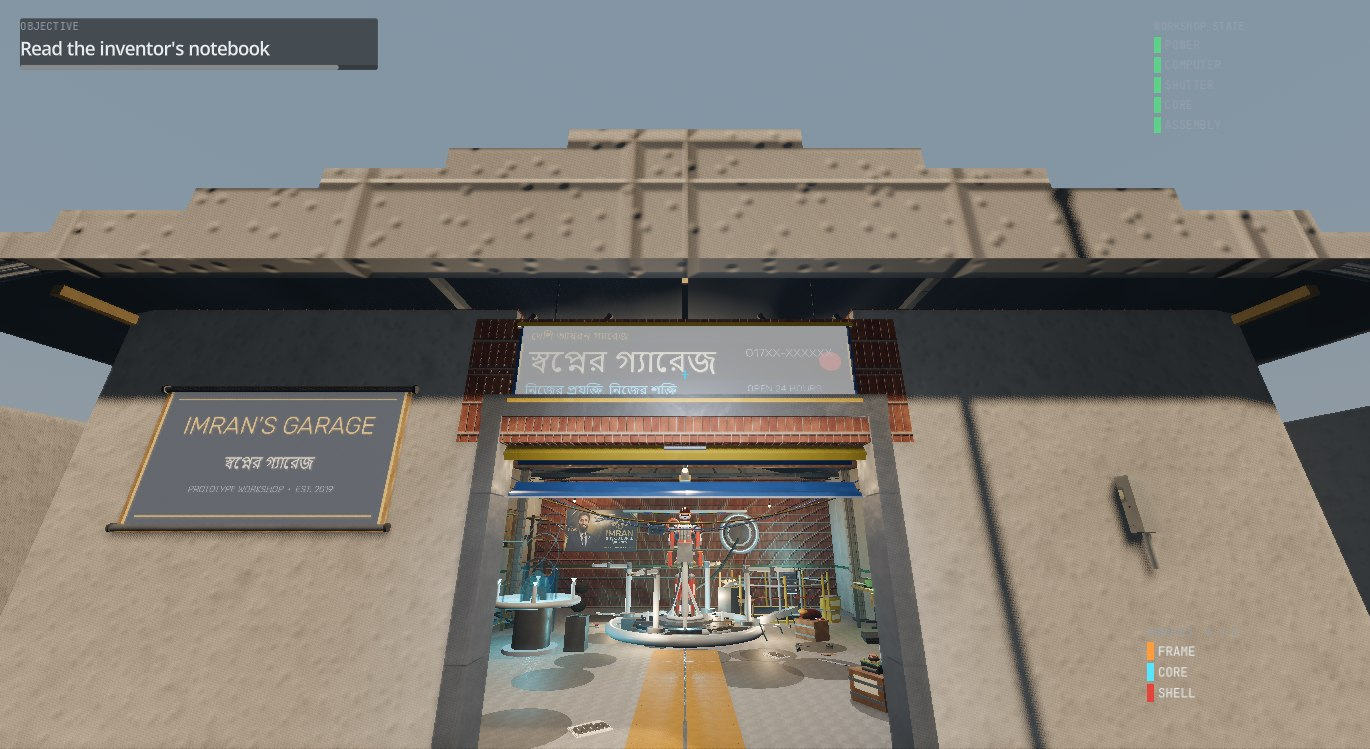
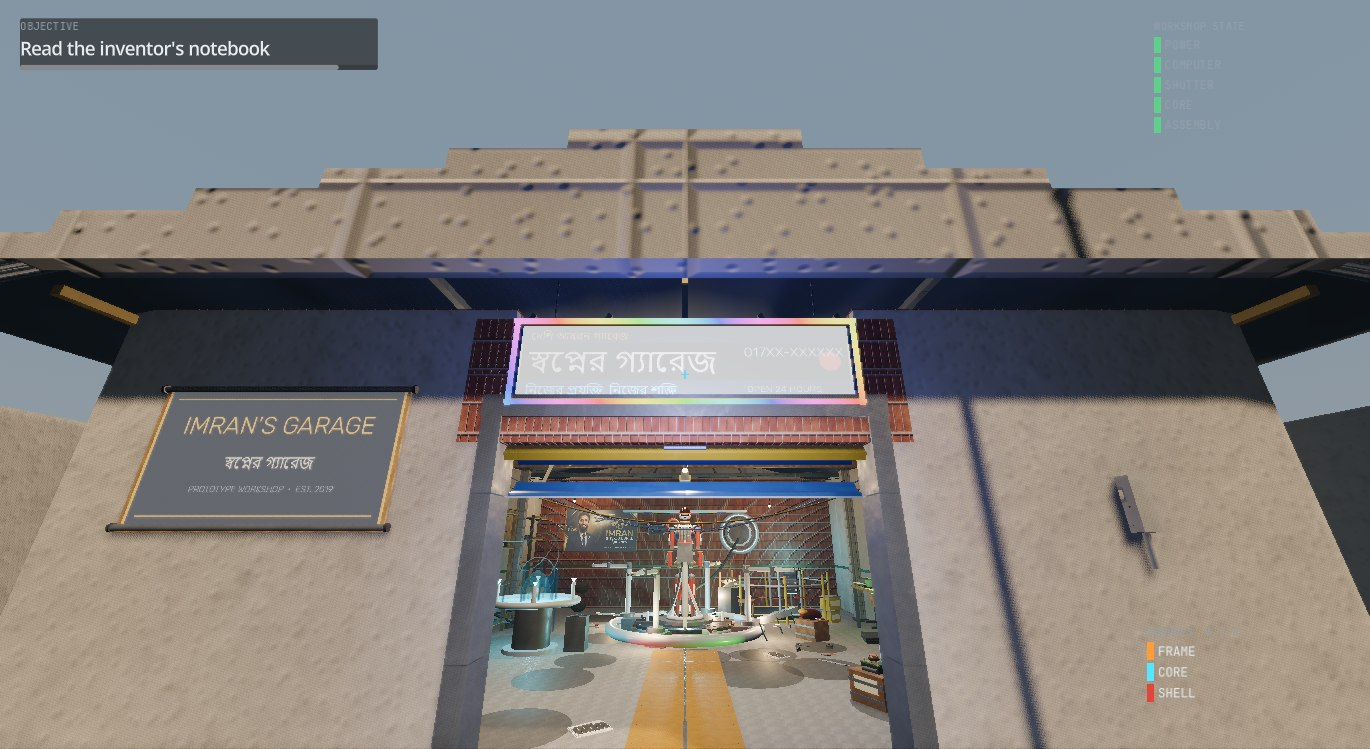
An RGB-lit signboard over the gate: brighter board, LED frame, cycling washes
The facade signboard was the dimmest thing on the frontage — small type, the
right-hand side (phone number, OPEN 24 HOURS) lost in the awning's shadow. It is
now the brightest:

- The bake is self-lit: emissive energy 0.35 -> 1.0, the phone number larger and
  whiter, the header bands lifted, the tagline cyan brighter. The board reads
  clearly at any light level.
- A chasing RGB LED strip (shaders/sign_rgb.gdshader — unshaded, hue from
  object-space position + time, bright enough to bloom) runs around the board's
  frame, the way the sign shops sell them by the metre.
- Two colour-cycling washes and one street-spill omni (scripts/garage/sign_rgb.gd)
  are attached to the sign itself and register on circuit 0, the incoming line:
  the sign is never dark, whatever the switchboard does — the same rule as the
  interior bulbs. The rig rides the prop, so carrying the signboard with the
  mouse carries its glow.

Counts: 37 lights (was 34; three new, none shadow-casting), 43 scripts, mesh cache
1 783 / 1 131, build 11 466 ms in the final capture. README (with a refreshed hero
screenshot), USER_MANUAL, PROJECT_OVERVIEW, RESEARCH_METHODOLOGY,
SYSTEM_ARCHITECTURE, EXPERIMENTS, ASSET_LICENSES and GRAPHICS_ALGORITHMS synced.

diff --git a/docs/EXPERIMENTS.md b/docs/EXPERIMENTS.md
@@ -274,11 +274,11 @@ count and the shadow-pass draw calls alongside the frame time. Measurements are 
 camera (fixed transform) so all configurations see the same geometry.
 
 **Note on the rig these rows were measured on.** The table below is from the lighting rig of the
-first build — 31 lights, 7 casters. The shipped rig has 34 — four tube fixtures instead of five,
-plus the five always-on bulbs, which cast no shadows — with the same seven-caster budget, the same
-circuit structure and the same finding: the cost tracks the shadow casters, not the light count.
-Re-running the tab on the shipped room reproduces the shape of the table rather than these exact
-milliseconds.
+first build — 31 lights, 7 casters. The shipped rig has 37 — four tube fixtures instead of five,
+plus the five always-on bulbs and the sign's three colour washes, none of which cast shadows — with
+the same seven-caster budget, the same circuit structure and the same
+finding: the cost tracks the shadow casters, not the light count. Re-running the tab on the shipped
+room reproduces the shape of the table rather than these exact milliseconds.
 
 **Results**
 
@@ -378,14 +378,14 @@ performance work.
 
 | Step | Time | Share | What dominates |
 |---|---|---|---|
-| Surface synthesis (first surface) | 262 ms | 2.4% | the per-texel loop |
-| Structure — floor, walls, columns, roof, shutter, entrance apron, windows | 5 772 ms | 52.4% | mesh generation, collision shapes, and the surfaces it requests |
-| Environment — sky, `WorldEnvironment`, 29 lights, dust, rain | 40 ms | 0.4% | negligible |
-| Dressing — 185 placements, 47 stations, 4 layout groups, cables, signage, grime decals, wall plaques, flag, coin, always-on bulbs, wall maps | 4 654 ms | 42.2% | prop construction, station wiring, and its surfaces |
-| Screens — 5 live `SubViewport`s and their materials | 74 ms | 0.7% | — |
-| Player — camera, ray, reticle, collision | 31 ms | 0.3% | — |
-| Interface — HUD, 10 panels, objective director | 182 ms | 1.7% | — |
-| **Total** | **11 015 ms** | **100%** | |
+| Surface synthesis (first surface) | 268 ms | 2.3% | the per-texel loop |
+| Structure — floor, walls, columns, roof, shutter, entrance apron, windows | 5 920 ms | 51.6% | mesh generation, collision shapes, and the surfaces it requests |
+| Environment — sky, `WorldEnvironment`, 29 lights, dust, rain | 39 ms | 0.3% | negligible |
+| Dressing — 185 placements, 47 stations, 4 layout groups, cables, signage, grime decals, wall plaques, flag, coin, always-on bulbs, wall maps, the sign's RGB rig | 4 951 ms | 43.2% | prop construction, station wiring, and its surfaces |
+| Screens — 5 live `SubViewport`s and their materials | 72 ms | 0.6% | — |
+| Player — camera, ray, reticle, collision | 32 ms | 0.3% | — |
+| Interface — HUD, 10 panels, objective director | 184 ms | 1.6% | — |
+| **Total** | **11 466 ms** | **100%** | |
 
 **Dressing breakdown, `GarageDressing.dressing_breakdown()`**
 
@@ -397,13 +397,13 @@ performance work.
 | Authored placements | 153 |
 | Procedural placements | 22 (4 groups: 6 + 5 + 6 + 5) |
 | Wall-rack placements | 10 |
-| Mesh cache hits / misses | 1 781 / 1 129 |
+| Mesh cache hits / misses | 1 783 / 1 131 |
 | Rejection-sampler efficiency | 46% of attempts produce a placement |
 
 The counts above are from the shipped build. The per-step times are from the latest capture run;
-the same garage measured 11 101 ms and 12 473 ms within the hour either side of it, so treat absolute
-milliseconds as load-dependent — they drift by about 20% when something else is using the laptop —
-and the shares as the finding. This is worth stating rather than pretending the machine is a
+the same garage measured 11 015 ms, 11 101 ms and 12 473 ms across the day's earlier runs, so treat
+absolute milliseconds as load-dependent — they drift by about 20% when something else is using the
+laptop — and the shares as the finding. This is worth stating rather than pretending the machine is a
 benchmark rig.
 
 **Finding 7.1 — surface synthesis dominates the wall clock.** The first surface costs 262–283 ms across
@@ -413,12 +413,12 @@ left is moving that per-texel loop to a compute shader, not reducing geometry. T
 13 × 16.5 m room measured 71%; the share rose when the room shrank, because the texture cost is per
 *surface*, not per cubic metre.
 
-**Finding 7.2 — mesh caching is what makes 191 props affordable.** 1 129 distinct meshes serve 185
-placed props through 1 781 hits. Without the cache every spanner, capacitor and bolt would allocate
+**Finding 7.2 — mesh caching is what makes 191 props affordable.** 1 131 distinct meshes serve 185
+placed props through 1 783 hits. Without the cache every spanner, capacitor and bolt would allocate
 its own `BoxMesh`; with it, forty spanners share one. This is also why the frame time is as low as it
 is — shared meshes are candidates for batching in a way that per-instance geometry is not.
 
-**Finding 7.3 — environment setup is free; environment *rendering* is not.** Building 34 lights, the
+**Finding 7.3 — environment setup is free; environment *rendering* is not.** Building 37 lights, the
 sky, the SDFGI configuration and two particle systems costs 39 ms. *Rendering* SDFGI costs 9.5 ms per
 frame. Setup cost and runtime cost are unrelated here, which is worth knowing when choosing what to
 add.

diff --git a/docs/SYSTEM_ARCHITECTURE.md b/docs/SYSTEM_ARCHITECTURE.md
@@ -49,7 +49,7 @@ to catch the first.
     ├── Runtime                  (Node)     GarageRuntime: power, shutter, fans, screens, core, assembly
     ├── Carry                    (Node)     CarrySystem: mouse pick-up / place / rotate / put back
     ├── Garage                   (Node3D)   GarageStructure: floor, walls, columns, roof, shutter frame
-    ├── Environment              (Node3D)   GarageEnvironment: WorldEnvironment, 34 lights, dust, rain
+    ├── Environment              (Node3D)   GarageEnvironment: WorldEnvironment, 37 lights, dust, rain
     ├── Dressing                 (Node3D)   GarageDressing: 185 props, 47 stations, cables, signage, decals
     │
     ├── area volumes ×6          (Area3D)   named rooms; group "garage_areas"
@@ -82,16 +82,16 @@ progress.
 
 | Step | What it does | Measured (UHD 620) |
 |---|---|---|
-| 0 | `MaterialLibrary.ensure_built()`, first surface synthesised | 264 ms for one 256 px surface (264–283 across runs) |
-| 1 | `GarageStructure.build()` — floor, plinths, courtyard, walls, columns, roof, shutter frame, entrance apron, windows | 5 772 ms |
-| 2 | `GarageEnvironment.build()` — sky, WorldEnvironment, 29 lights in 4 circuits, dust, rain (the five always-on bulbs are registered by the dressing, each attached to its own bulb) | 40 ms |
-| 3 | `GarageDressing.dress()` — 5 areas, 4 procedural layout groups, 2 wall racks, cables, signage, the always-on bulbs, the wall maps | 4 654 ms |
+| 0 | `MaterialLibrary.ensure_built()`, first surface synthesised | 268 ms for one 256 px surface (262–283 across runs) |
+| 1 | `GarageStructure.build()` — floor, plinths, courtyard, walls, columns, roof, shutter frame, entrance apron, windows | 5 920 ms |
+| 2 | `GarageEnvironment.build()` — sky, WorldEnvironment, 29 lights in 4 circuits, dust, rain (the five always-on bulbs and the sign's RGB rig are registered by the dressing, each light attached to its own prop) | 39 ms |
+| 3 | `GarageDressing.dress()` — 5 areas, 4 procedural layout groups, 2 wall racks, cables, signage, the always-on bulbs, the wall maps, the sign's RGB rig | 4 951 ms |
 | 4 | Area volumes | — |
-| 5 | Live `SubViewport`s for 5 screens, attached to their materials | 74 ms |
-| 6 | Player, camera, ray, reticle, collision, capsule sizing | 31 ms |
-| 7 | HUD, all panels, `ObjectiveDirector`, `start()` | 182 ms |
+| 5 | Live `SubViewport`s for 5 screens, attached to their materials | 72 ms |
+| 6 | Player, camera, ray, reticle, collision, capsule sizing | 32 ms |
+| 7 | HUD, all panels, `ObjectiveDirector`, `start()` | 184 ms |
 | 8 | `_apply_restored_state()` — replays a saved run with `instant = true` | — |
-| | **total** | **11 015 ms** |
+| | **total** | **11 466 ms** |
 
 Surfaces are synthesised **lazily**, on first request. Loading every recipe up front would cost
 roughly 9.5 s for all 34 at 256 px; the garage actually touches 34 of them, so the saving is in the
@@ -367,7 +367,7 @@ so that `tests/validate_scripts.gd` can run in an environment with no GPU.
 
 | Mechanism | What it covers |
 |---|---|
-| `tests/validate_scripts.gd` | Loads and compiles all 42 scripts headless; fails loudly on any parse or compile error. This is the primary guard, and it caught every error class during development. |
+| `tests/validate_scripts.gd` | Loads and compiles all 43 scripts headless; fails loudly on any parse or compile error. This is the primary guard, and it caught every error class during development. |
 | `tests/timing_probe.gd` | Measures one surface at 256/384/512 px. The instrumentation that established the texture budget. |
 | `tests/introspect.gd` | Engine API introspection. Used to pin exact signatures when they were uncertain rather than guessing. |
 | `tests/dump_floor.gd` | Builds the world headless and reports: every node within a radius of a floor point, the dressing's occupancy boxes with their owning stations, per-child bound audits, and a full carry-system exercise — surface heights, a pick-up/place cycle and the put-back path. Written to turn "the screenshot shows something odd" into a named object, and "the carry maths should work" into measured numbers. |

diff --git a/docs/PROJECT_OVERVIEW.md b/docs/PROJECT_OVERVIEW.md
@@ -150,6 +150,7 @@ recorded in `docs/ASSET_LICENSES.md`.
 | Lab wall | Six honour plaques for Bangladeshi/Bengali scientists and one inventions board, engraved in Bangla from `data/scientists.json` and `data/inventions.json` through the same sign baker as every other sign, plus `F` inspection text for each |
 | National corner | The national flag on a courtyard pole — the official construction (2:3, disc at 9/20 length, radius L/5) with a cloth shader that waves it — and a big brass ৫ টাকা display coin leaning on its plinth; both are inspectable, neither is real currency |
 | Wall maps | Two hand-drawn sketch maps hung on the entrance walls: the country right of the gate, the Sylhet division beside the door — outline, rivers, towns and district lines drawn through the same sign baker as every other sign, with `F` text honest that they are line sketches, not survey data |
+| Shop signboard | Hand-painted tin over the gate, now framed in a chasing **RGB LED strip** (its own shader) with two colour-cycling washes — all on the incoming line, so the board stays bright and the street gets its neon whatever the switchboard does |
 | Auto-opening gate | The shutter's presence sensor rolls the curtain up as anyone approaches the courtyard — it starts most of the way down and the room wakes up as it lifts. It can no longer be lowered |
 | Always-on bulbs | Five bare bulbs — walk lane, both benches, the testing corner, the store — are wired ahead of the switchboard to the incoming line, outside every switchable circuit: the room is never dark, even at the start, and each bulb carries its own light when you pick it up |
 | Entrance | A concrete apron ramps the doorway down to the packed earth so the shop can be walked into and out of without breaking stride, and the courtyard is walled in — walking past the street wall or the neighbour walls stops you instead of dropping you out of the world |
@@ -198,12 +199,12 @@ assembly sequence. That is the localisation requirement, implemented as configur
 
 On Intel UHD 620 at 1600×900, Forward+:
 
-- Garage build: **11.0 s** in the latest capture run (5.8 s structure, 4.7 s dressing for 185
-  placements; the same build has measured 11.1 s and 12.5 s across the day — machine load moves it;
+- Garage build: **11.5 s** in the latest capture run (5.9 s structure, 5.0 s dressing for 185
+  placements; the same build has measured 11.0–12.5 s across earlier runs — machine load moves it;
   most of the total is surface synthesis, spread across both steps)
 - Medium preset: 40–55 fps measured before the preset retune — SDFGI and volumetric fog off, SSR on,
   five shadow casters; the retune cut a further 13–27 ms of CPU frame time (`docs/EXPERIMENTS.md` §7.5)
 - High preset: 18–26 fps measured before the retune, all global-illumination features on, seven casters
-- 34 lights, 7 of them shadow casters, 5 live screen viewports
+- 37 lights, 7 of them shadow casters, 5 live screen viewports
 
 `docs/EXPERIMENTS.md` holds the per-experiment tables and the exact configuration for each row.

diff --git a/README.md b/README.md
@@ -188,7 +188,9 @@ geometry, not asserted in text.
 - **A lighting rig in four switchable circuits** over one shadow-casting daylight source, plus **five
   always-on bulbs** wired ahead of the switchboard on the incoming line — walk lane, both benches,
   the testing corner and the store — so the room is never dark, even before power is restored. Each
-  bulb carries its own light, so picking one up and moving it moves its glow with it. The shutter
+  bulb carries its own light, so picking one up and moving it moves its glow with it. The shop
+  signboard over the gate is framed in a **chasing RGB LED strip** with two colour-cycling washes,
+  also on the incoming line — the street side of the garage gets its neon. The shutter
   position continuously drives the daylight shafts and the volumetric fog density — the gate opens by
   itself as anyone approaches the courtyard, and the room visibly wakes up as it lifts. The
   expensive features are preset tiers — SDFGI and the fog are off below the high preset, and the
@@ -266,13 +268,13 @@ in-world graphics bench. These are the numbers the application reports about its
 
 | Measurement | Value |
 |---|---|
-| Full garage build | ≈ 11–12 s (11.0 s in the latest capture run; it moves with machine load) |
+| Full garage build | ≈ 11–12 s (11.5 s in the latest capture run; it moves with machine load) |
 | Surface synthesis, first 256 px surface | ≈ 280 ms |
 | Props placed | 185 (191 built, 134 kinds) |
 | Interactive stations | 47 |
-| Registered lights | 34 (of which shadow casters: 7) |
+| Registered lights | 37 (of which shadow casters: 7) |
 | Live screen SubViewports | 5 |
-| Mesh cache | 1781 hits, 1129 misses |
+| Mesh cache | 1783 hits, 1131 misses |
 | CPU loop, headless (script side, no GPU work) | 7.9 ms per frame (127 fps) |
 | Adaptive resolution | on by default: render scale 0.55–0.85, ±0.05 per second, holding worst-case frames under 24 ms |
 | Frame rate | interactive only: the automated capture session's window presentation is capped at 7.5 Hz regardless of load (see `docs/EXPERIMENTS.md` §7.5), so frame rates are read from the in-app bench (F6). The retune cut 13–27 ms of CPU frame time against the earlier settings |
@@ -326,7 +328,7 @@ scripts/
   player/                   # Player
   ui/                       # Hud, BenchmarkPanel, MainMenu
 tests/
-  validate_scripts.gd       # headless compile check for all 42 scripts
+  validate_scripts.gd       # headless compile check for all 43 scripts
   timing_probe.gd           # measures surface synthesis at three resolutions
   introspect.gd             # engine API introspection, used during development
   dump_floor.gd             # headless scene inspector: names what a capture shows

diff --git a/docs/ASSET_LICENSES.md b/docs/ASSET_LICENSES.md
@@ -10,7 +10,7 @@ records exactly what came from where, and under what terms.
 
 | Category | Count | Origin | Licence |
 |---|---|---|---|
-| 3D meshes | 1 129 distinct, 185 placed | **Generated at runtime** by `ShapeKit` and the prop catalogues | Original work, same licence as the source |
+| 3D meshes | 1 131 distinct, 185 placed | **Generated at runtime** by `ShapeKit` and the prop catalogues | Original work, same licence as the source |
 | Texture images | 34 surface sets × 3 channels = 102 images | **Synthesised at runtime** by `TextureFactory` | Original work |
 | Supplied photograph | 1 image (127 KB) | **Provided by the project's author** — the workshop banner hung on the north wall | Author's own work, used with the author's permission |
 | Audio | 22 clips | **Synthesised at runtime** by `AudioSynth` | Original work |
@@ -32,8 +32,8 @@ catalogues.
 Two mechanisms are used:
 
 **Engine primitives, parameterised.** Godot's `BoxMesh`, `CylinderMesh`, `SphereMesh`, `TorusMesh`,
-`PlaneMesh` and `CapsuleMesh` are configured per prop and cached by dimensions. 1 129 distinct
-configured meshes serve 185 placed props through 1 781 cache hits in the shipped room.
+`PlaneMesh` and `CapsuleMesh` are configured per prop and cached by dimensions. 1 131 distinct
+configured meshes serve 185 placed props through 1 783 cache hits in the shipped room.
 
 **Geometry generated from parameters.** Where a primitive is insufficient, the mesh is built with
 `SurfaceTool` or `ArrayMesh` from parameters:

diff --git a/docs/USER_MANUAL.md b/docs/USER_MANUAL.md
@@ -228,7 +228,9 @@ three gauges, six toggle levers and a mushroom emergency stop, a portrait diagno
 
 **Outside.** Step back out through the gate — it has rolled itself up, and it does that for anyone who
 walks up: the presence sensor over the lintel lifts the curtain as you approach (there is nothing to
-press; the shutter station only tells you about it). The way in and out is a concrete apron that
+press; the shutter station only tells you about it). Above the gate, the shop's tin signboard is
+framed in a chasing RGB LED strip with two colour-cycling washes — always on, like the bulbs inside,
+so the street side of the garage is never dark either. The way in and out is a concrete apron that
 ramps the doorway down to the yard, so you walk in without breaking stride whichever way you come.
 The courtyard itself is walled in — the street wall and the neighbour walls are solid, and the packed
 earth runs right up to them. On the walls of the entrance: **a hand-drawn map of Bangladesh** right

diff --git a/docs/RESEARCH_METHODOLOGY.md b/docs/RESEARCH_METHODOLOGY.md
@@ -210,7 +210,7 @@ The traceability is explicit:
 | Five terms in the core | `shaders/energy_core.gdshader` |
 | Parallel-transport framing | `CableGenerator.parallel_transport_frames()` |
 | Bundling saves draw calls | `CableGenerator.generate_bundle()` — one `SurfaceTool`, one `commit()` |
-| Seven shadow casters of 34 lights | `GarageEnvironment` and the dressing register 34; the bench reports the caster count |
+| Seven shadow casters of 37 lights | `GarageEnvironment` and the dressing register 37; the bench reports the caster count |
 | Shutter drives the daylight | `GarageEnvironment.set_shutter_influence()`, called from `GarageWorld._process()` |
 | 191 props built, 134 kinds | `GarageWorld.build_report()` |
 | Screen content reads the simulation | `ScreenContent._snapshot()`, called by every screen and every panel |

diff --git a/docs/GRAPHICS_ALGORITHMS.md b/docs/GRAPHICS_ALGORITHMS.md
@@ -515,7 +515,7 @@ that darkens distant sources.
 ### 8.1 Mesh caching
 
 `ShapeKit` keys every primitive on its dimensions and reuses the mesh. The garage builds 191 props
-from **1 129 distinct meshes** with **1 781 cache hits** — a 1.6:1 reuse ratio, which is the difference
+from **1 131 distinct meshes** with **1 783 cache hits** — a 1.6:1 reuse ratio, which is the difference
 between a scene that runs on integrated graphics and one that does not.
 
 ### 8.2 Generators rather than primitives
